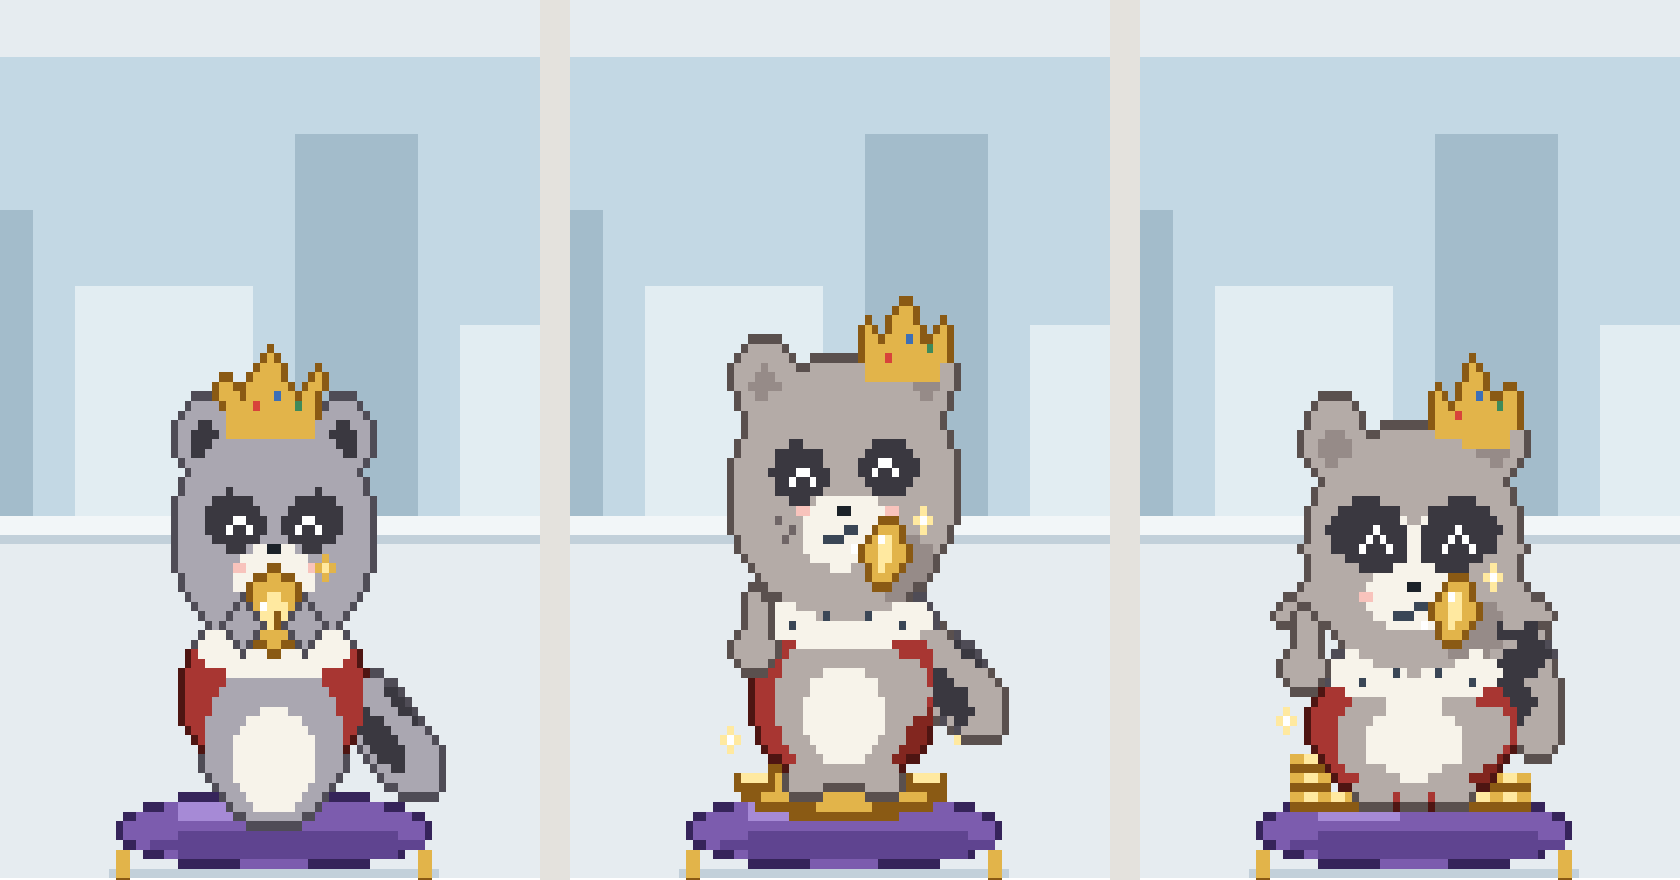
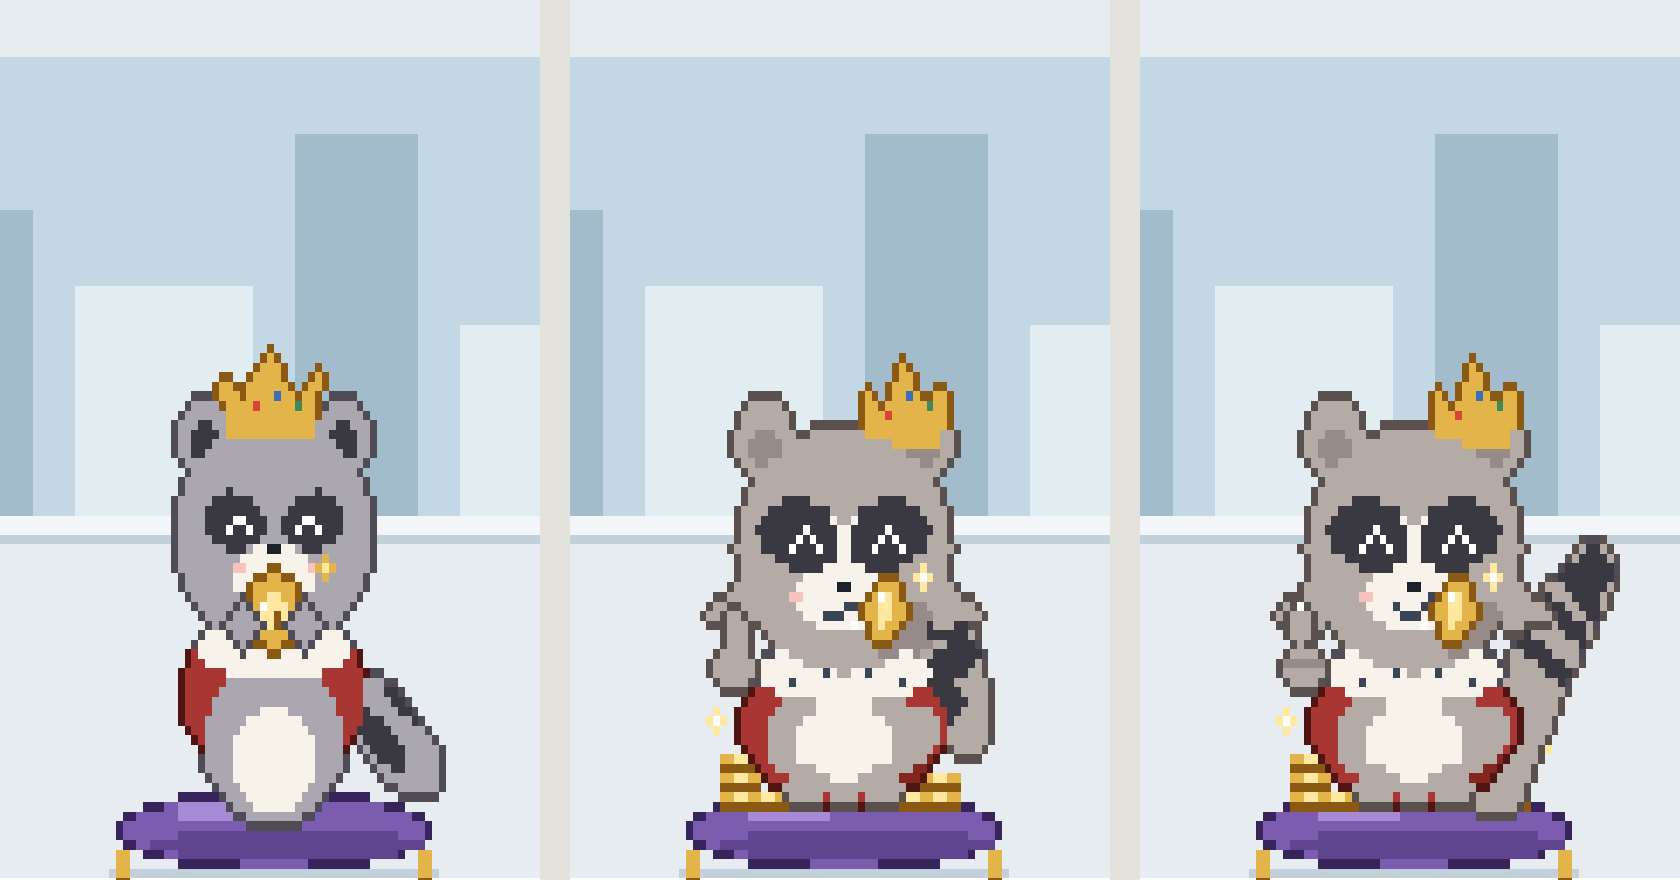
docs: raccoon king v5 (tail, thumb, smirk)
Claude-Session: https://claude.ai/code/session_01DfELKGAuUeHGLNNJha5AAX

diff --git a/docs/plans/company/cast.html b/docs/plans/company/cast.html
@@ -129,7 +129,8 @@ function scene(X, sil) {
     [[-15, 0], [-15, -2], [-15, -4], [-11, 0], [14, 0], [14, -2], [10, 0], [-4, 0], [3, 0], [-7, -1.5], [7, -1.5], [0, -1.5]].forEach(([a, b]) => coin(cx + a, dy - 8 + b));
     if (!sil) [[-19, -17], [18, -14]].forEach(([a, b]) => { px(cx + a, dy + b, C.wh); px(cx + a - 1, dy + b, C.au2); px(cx + a + 1, dy + b, C.au2); px(cx + a, dy + b - 1, C.au2); px(cx + a, dy + b + 1, C.au2); });
     const by = dy - 10, { L, E, PG, at } = mk(cx, by);
-    E(11, -9, 3.6, 7.5, C.rw, -.45); [[12.6, -13], [11, -9], [9.4, -5.2]].forEach(([a, b]) => E(a, b, 1.6, 4, C.mask, -.45 + 1.57, C.rw)); E(12.8, -15.5, 2.2, 2, C.mask, 0, C.rw);   // 蓬蓬的條紋尾巴往上翹
+    { const Tl = Lay(); const tp = t => at(9 + t * 10, -1 - t * 19 + t * t * 4); for (let k = 0; k <= 24; k++) { const t = k / 24, [p, q] = tp(t); lel(Tl, p, q, (3.2 - t * .7) * S, (3.2 - t * .7) * S, C.rw); }
+      [.52, .7, .88].forEach(t => { const [p, q] = tp(t), ang = Math.atan2(-19 + 8 * t, 10); lel(Tl, p, q, .9 * S, 4 * S, C.mask, ang, C.rw); }); { const [p, q] = tp(1.02); lel(Tl, p, q, 2 * S, 2 * S, C.mask, 0, C.rw); } outline(Tl); blit(Tl, dy); }   // 灰黑條紋的蓬蓬尾巴，從屁股旁邊翹出來（另一層，畫在身體後面）
     E(0, -4.5, 11, 6, C.cape); E(5, -2, 5, 3.5, C.cape2, 0, C.cape);                                       // 整件紅披風
     E(0, -3.6, 8.5, 4.8, C.rw); E(0, -3, 5.2, 3.2, C.fur, 0, C.rw);                                         // 矮矮圓圓的肚子
     E(-4, .3, 2.5, 1.5, C.rw); E(4, .3, 2.5, 1.5, C.rw);                                                     // 兩隻小腳
@@ -148,13 +149,13 @@ function scene(X, sil) {
     [[-4.6, -19.2], [4.6, -19.2]].forEach(([a, b]) => { const [p, q] = at(a, b); F(L, p - 2, q + 1, [[0, 0], [1, -1], [2, -2], [3, -1], [4, 0]], C.wh); });   // 大大的 ^ ^ 得意眼
     const [ex, ey] = at(0, -16);
     F(L, ex - 1, ey + 1, [[0, 0], [1, 0]], C.ink0);
-    F(L, ex - 3, ey + 4, [[0, 0], [1, 0], [2, 0], [3, -1], [4, -1]], C.ink2); F(L, ex + 1, ey + 5, [[0, 0]], C.wh);   // 斜斜的壞笑、一顆門牙
+    F(L, ex - 3, ey + 3, [[0, 0], [1, 1], [2, 1], [3, 1], [4, 0], [5, -1]], C.ink2); F(L, ex + 1, ey + 5, [[0, 0]], C.wh);   // 嘴角往上斜的壞笑、一顆門牙
     F(L, ex - 8, ey + 2, [[0, 0], [1, 0]], C.pk2); F(L, ex + 7, ey + 2, [[0, 0], [1, 0]], C.pk2);
     blit(L, dy);
     const Cn = Lay(), [kx, ky] = at(4.8, -13.2);                                                             // 咬在嘴角的金幣
     lel(Cn, kx, ky, 2.6, 3.2, C.au1, .3); outline(Cn); lel(Cn, kx, ky, 1.3, 1.8, C.au2, .3, C.au1); lp(Cn, kx - 1, ky - 2, C.wh); blit(Cn, dy);
     const Th = Lay(), [tx, ty] = at(-11.5, -9);                                                              // 舉到肩膀旁邊比讚
-    lel(Th, tx, ty, 2.8, 2.5, C.rw); lel(Th, tx + .3, ty - 4, 1.4, 2.6, C.rw, -.15); outline(Th); blit(Th, dy);
+    lel(Th, tx, ty, 3, 2.2, C.rw); lel(Th, tx - .5, ty - 4.5, 1.2, 2.8, C.rw); outline(Th); lp(Th, tx - 1, ty - 7, C.wh); for (let i = -3; i <= 2; i++) lp(Th, tx + i, ty - 1, C.rw2); blit(Th, dy);   // 拳頭橫的、大拇指直直往上
     if (!sil) { const sx = kx + 5, sy = ky - 4; px(sx, sy, C.wh); px(sx - 1, sy, C.au2); px(sx + 1, sy, C.au2); px(sx, sy - 1, C.au2); px(sx, sy + 1, C.au2); }
   }
   // ---- 青江菜船長：泡在一杯水裡，一片葉子舉到帽簷敬禮，生氣的粗眉 ----

diff --git a/docs/plans/company/README.md b/docs/plans/company/README.md
@@ -52,3 +52,4 @@
   - 第三版：蘋果鴨縮小一號（比例 1.18，其他 1.35）、船長敬禮的手變大斜貼帽簷並改成菜梗淺綠（深綠會看成多一片葉子）、鼴鼠筆筒加寬、筆插兩邊。妹妹：「九隻擺在一起就是同一套，我會想全部收集。」**九隻定稿**：`cute-v6.png`（前三隻）＋`cast.png`（另外六隻）。
   - 浣熊大王第三版（使用者：「可以更可愛一點嗎」）。妹妹：「現在是乖，還沒到想捏」——金幣咬正中間像吸奶嘴、黑眼罩像泳鏡、頭身一樣寬像保溫瓶、灰得像水泥。改：頭大身小圓肚子、伸出小腳、暖灰 `#b4aba7`；小熊貓那種圓圓小眼罩，裡面瞇成 ^ ^；斜斜壞笑露一顆門牙；金幣咬在嘴角；另一手比讚、一手叉腰；屁股下一堆金幣閃閃；整件紅披風＋白毛領；皇冠小一點歪戴；臉頰沾煤灰（礦工）。對照 `raccoon-before-after.png`。
   - 浣熊大王第四版：妹妹說第三版「變成灰色泰迪熊」（兩小圈眼罩、看不到尾巴、白點眼像被嚇到、身體還是長、金幣堆像托盤、煤灰像鬍渣）。改：一條橫過眼睛的黑眼罩（中間一道白）、兩頰蓬毛、蓬蓬條紋尾巴往上翹、^ ^ 畫大、身體矮一半、比讚的手舉到肩膀、金幣改成一疊一疊、拿掉煤灰。`raccoon-before-after.png` 三張：第二版、第三版、第四版。
+  - 浣熊大王第五版：妹妹說第四版「像浣熊了、差一點就想捏」，卡尾巴（黑一塊像翅膀）、比讚看不出、嘴像嘟嘴。改：尾巴另一層畫在身體後面、從屁股旁邊彎彎翹出來、灰底三圈細黑條紋＋黑尾尖；拳頭橫的、大拇指直直往上；嘴角往上斜的壞笑。`raccoon-before-after.png` 改成：原本、第四版、第五版。

diff --git a/changelog/2026-11.md b/changelog/2026-11.md
@@ -1330,3 +1330,6 @@
 
 ## 2026-11-24 23:05（台灣）　開公司：浣熊大王再修一次
 - 妹妹說上一版變成「灰色泰迪熊」，改回浣熊的招牌：一條橫過眼睛的黑眼罩、兩頰蓬毛、蓬蓬的條紋尾巴；眼睛的 ^ ^ 畫大、身體矮一半、比讚的手舉到肩膀旁、屁股下的金幣改成一疊一疊、拿掉臉頰的煤灰。只是企劃，網站沒有變。
+
+## 2026-11-24 23:20（台灣）　開公司：浣熊大王的尾巴、讚、壞笑
+- 妹妹說「像浣熊了，差一點就想捏」。最後三個地方：尾巴改成灰底黑圈、從屁股旁邊翹出來（原本黑黑一塊像翅膀）；比讚的大拇指直直往上；嘴角往上斜，是壞笑不是嘟嘴。只是企劃，網站沒有變。
